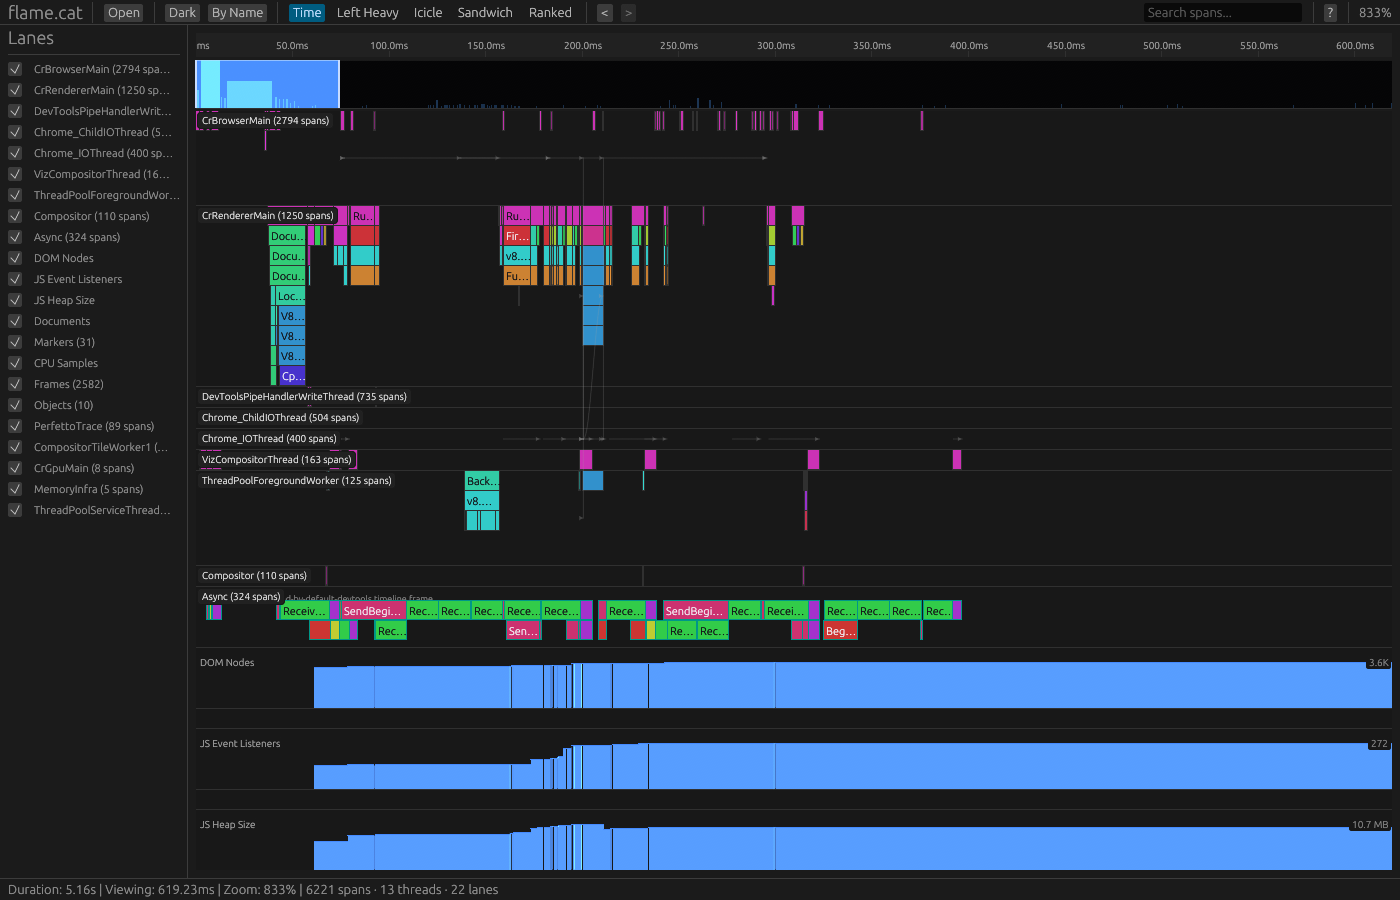
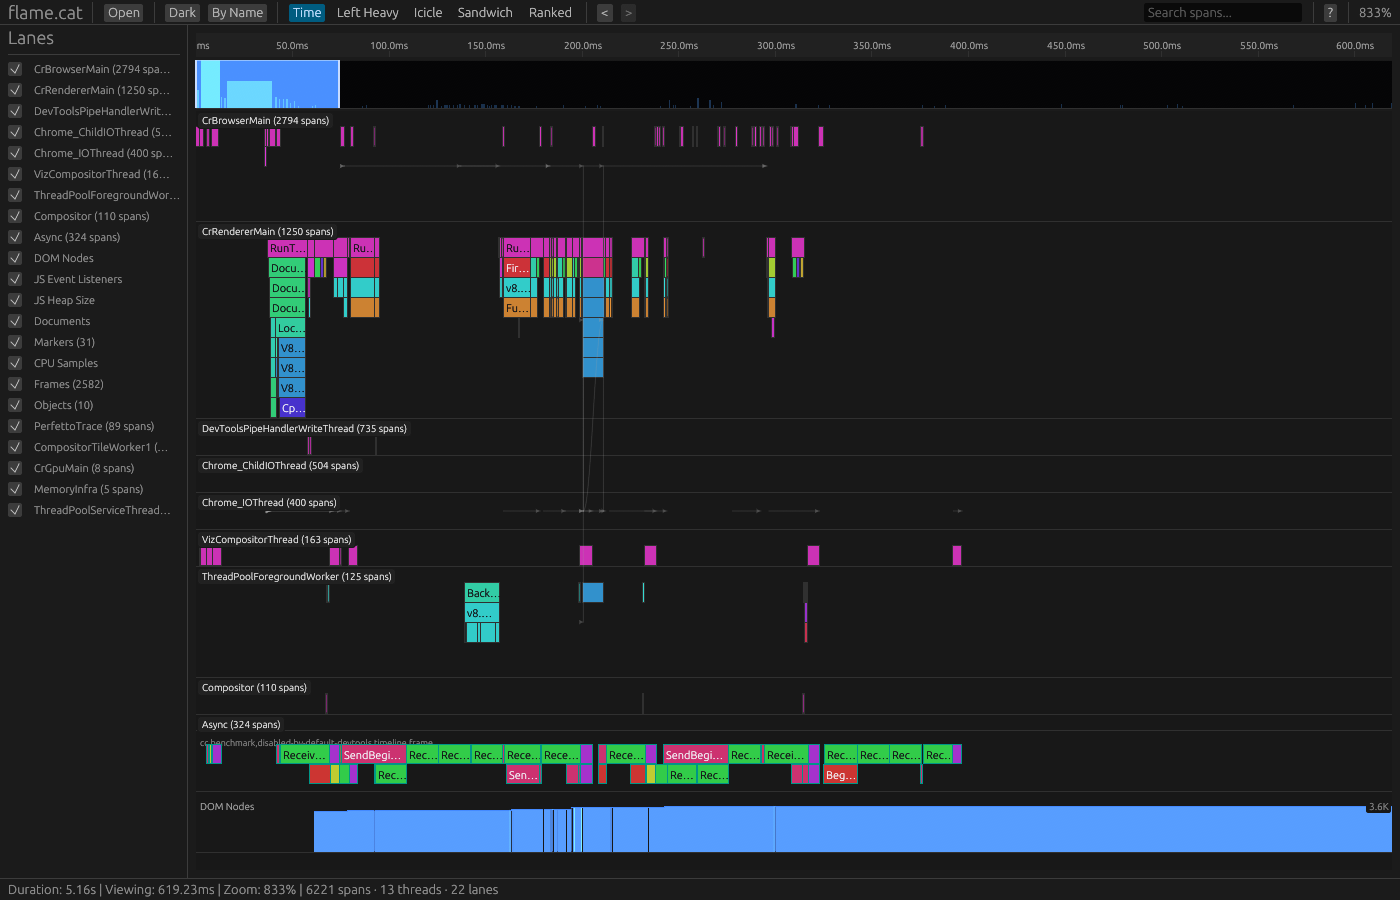
fix: ranked view renders as single global table
- Ranked table now renders once (first visible lane) instead of per-lane
- Uses full available height for the table (not individual lane height)
- No lane title label in Ranked view (it's a global table, not per-lane)
- No lane border lines in Ranked view
- Clean 'Symbol Name / Self / Total / Count' header with scrollable rows

Screenshots retaken.

diff --git a/crates/ui/src/app.rs b/crates/ui/src/app.rs
@@ -456,7 +456,8 @@ impl FlameApp {
         let abs_end = session_start + self.view_end * duration;
 
         self.lane_commands.clear();
-        for lane in &self.lanes {
+        let first_visible = self.lanes.iter().position(|l| l.visible);
+        for (lane_idx, lane) in self.lanes.iter().enumerate() {
             if !lane.visible {
                 self.lane_commands.push(Vec::new());
                 continue;
@@ -465,7 +466,12 @@ impl FlameApp {
                 x: 0.0,
                 y: 0.0,
                 width: canvas_width as f64,
-                height: lane.height as f64,
+                // Ranked view uses a large viewport for the single global table
+                height: if self.view_type == crate::ViewType::Ranked {
+                    2000.0
+                } else {
+                    lane.height as f64
+                },
                 dpr: 1.0,
             };
             let cmds = match &lane.kind {
@@ -504,12 +510,19 @@ impl FlameApp {
                             )
                         }
                     }
-                    crate::ViewType::Ranked => flame_cat_core::views::ranked::render_ranked(
-                        &entry.profile,
-                        &viewport,
-                        flame_cat_core::views::ranked::RankedSort::SelfTime,
-                        false,
-                    ),
+                    crate::ViewType::Ranked => {
+                        // Ranked table is global — only render for the first visible lane
+                        if Some(lane_idx) == first_visible {
+                            flame_cat_core::views::ranked::render_ranked(
+                                &entry.profile,
+                                &viewport,
+                                flame_cat_core::views::ranked::RankedSort::SelfTime,
+                                false,
+                            )
+                        } else {
+                            Vec::new()
+                        }
+                    }
                     crate::ViewType::Icicle => flame_cat_core::views::left_heavy::render_icicle(
                         &entry.profile,
                         &viewport,
@@ -1680,6 +1693,14 @@ impl FlameApp {
                     continue;
                 }
 
+                // Ranked view: single global table in the first visible lane only
+                if self.view_type == crate::ViewType::Ranked {
+                    let first_visible = self.lanes.iter().position(|l| l.visible).unwrap_or(0);
+                    if i != first_visible {
+                        continue;
+                    }
+                }
+
                 let self_labeled = matches!(
                     lane.kind,
                     LaneKind::Counter(_)
@@ -1688,12 +1709,23 @@ impl FlameApp {
                         | LaneKind::FrameTrack
                         | LaneKind::ObjectTrack
                 );
-                // Reserve header for inline label — applies to Thread and Async lanes
-                let label_reserve =
-                    if self_labeled || lane.height < 18.0 { 0.0 } else { 16.0 };
+                // Reserve header for inline label — skip for Ranked view
+                let label_reserve = if self_labeled
+                    || lane.height < 18.0
+                    || self.view_type == crate::ViewType::Ranked
+                {
+                    0.0
+                } else {
+                    16.0
+                };
 
                 let lane_top = y_offset;
-                let total_height = lane.height + label_reserve;
+                // Ranked: use full remaining height
+                let total_height = if self.view_type == crate::ViewType::Ranked {
+                    (available.bottom() - lane_top).max(200.0)
+                } else {
+                    lane.height + label_reserve
+                };
 
                 // Record lane y-center for flow arrows
                 if let LaneKind::Thread(tid) = &lane.kind {
@@ -1882,22 +1914,28 @@ impl FlameApp {
                         | LaneKind::FrameTrack
                         | LaneKind::ObjectTrack
                 );
-                if !self_labeled && total_height >= 18.0 && lane_top + 2.0 >= available.top() {
+                if !self_labeled
+                    && total_height >= 18.0
+                    && lane_top + 2.0 >= available.top()
+                    && self.view_type != crate::ViewType::Ranked
+                {
                     deferred_labels.push((lane.name.clone(), lane_top, total_height));
                 }
 
-                // Lane border
-                let border_color = crate::theme::resolve(
-                    flame_cat_protocol::ThemeToken::LaneBorder,
-                    self.theme_mode,
-                );
-                painter.line_segment(
-                    [
-                        egui::pos2(available.left(), lane_top + total_height),
-                        egui::pos2(available.right(), lane_top + total_height),
-                    ],
-                    egui::Stroke::new(1.0, border_color),
-                );
+                // Lane border (skip in Ranked view)
+                if self.view_type != crate::ViewType::Ranked {
+                    let border_color = crate::theme::resolve(
+                        flame_cat_protocol::ThemeToken::LaneBorder,
+                        self.theme_mode,
+                    );
+                    painter.line_segment(
+                        [
+                            egui::pos2(available.left(), lane_top + total_height),
+                            egui::pos2(available.right(), lane_top + total_height),
+                        ],
+                        egui::Stroke::new(1.0, border_color),
+                    );
+                }
 
                 y_offset += total_height + 1.0;
             }
